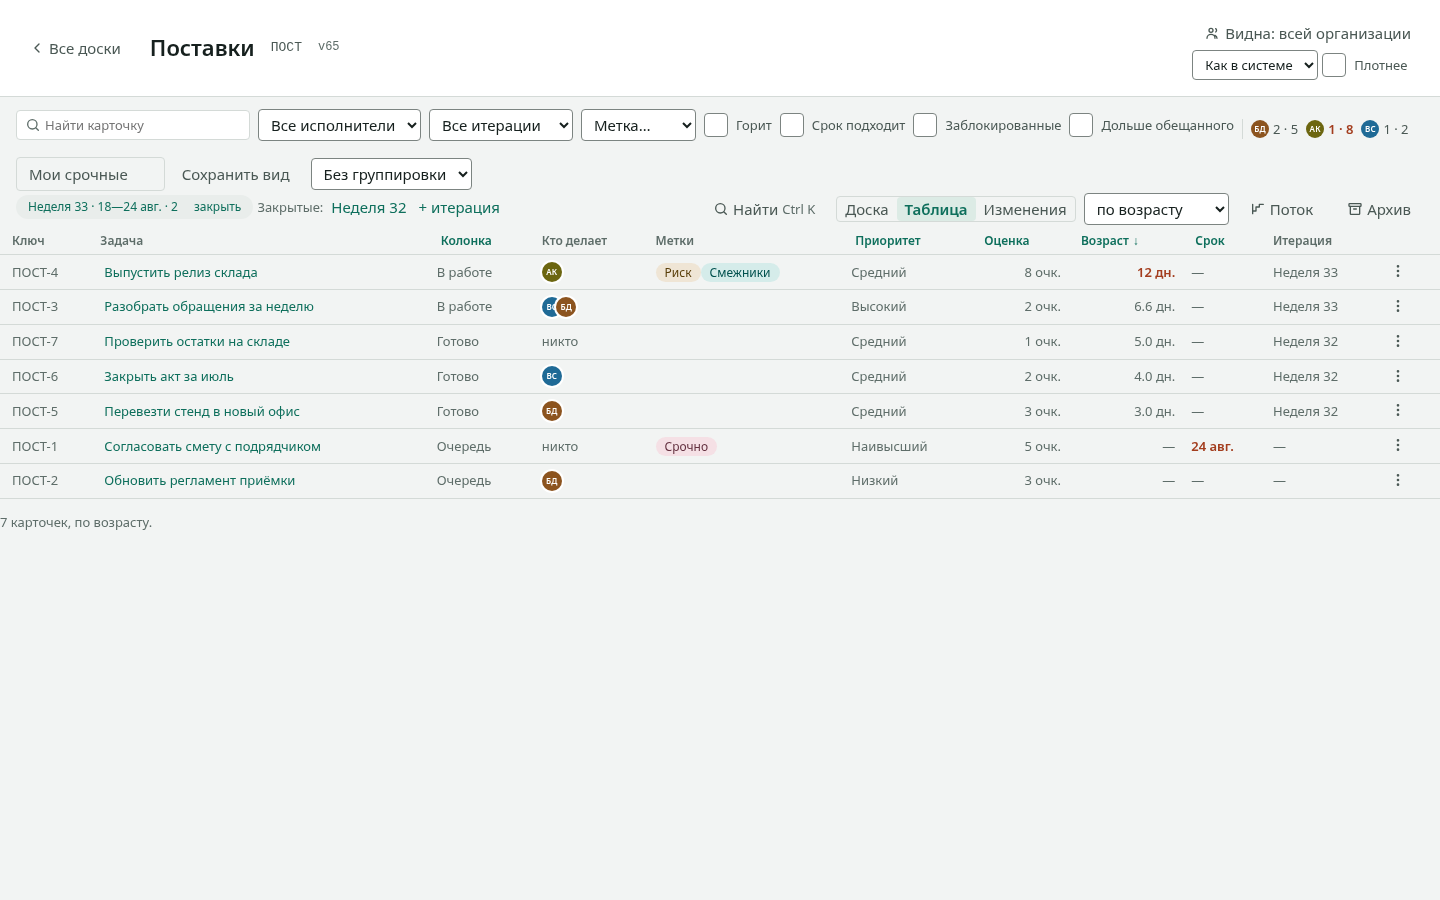
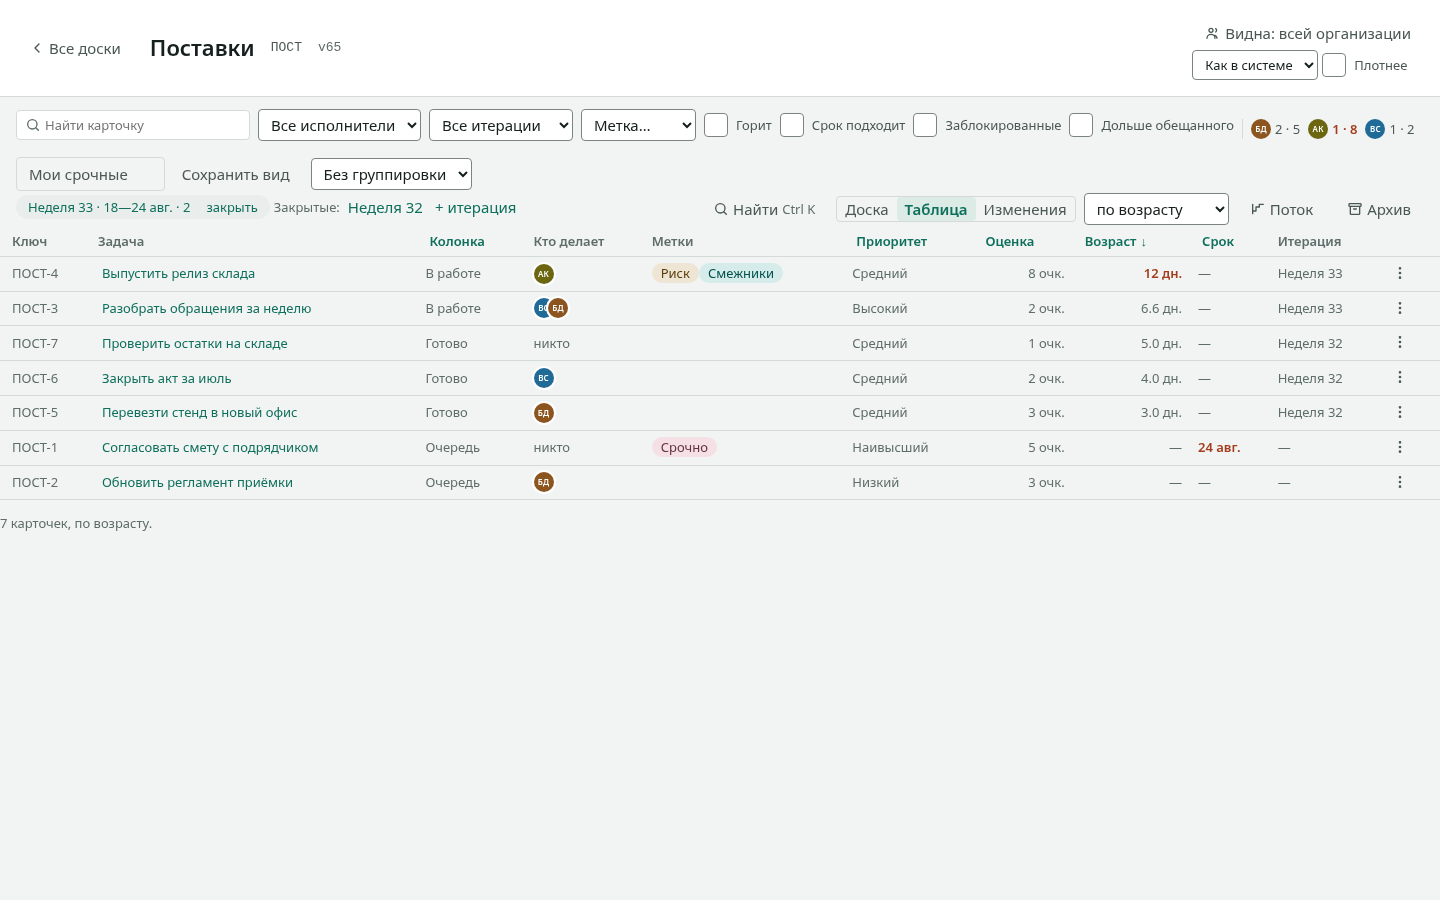
Шкала кегля: ступеней четыре, а было пять
Перепись по экранам: двенадцатью рисовалось 24 вида элементов,
тринадцатью 16, и стояли они вплотную — «ПОСТ» тринадцатью и «v65»
двенадцатью в одной строке шапки. Один и тот же класс .link выходил
то так, то этак — от того, внутри чего оказался. «Заголовок раздела»
был мельче обычного мелкого текста.

Разница в пиксель не читается: при тройном увеличении снимка видна,
на экране нет. --text-xs убран, 22 применения переехали на --text-sm.
Цена померена: самая высокая карточка выросла на 4 пикселя, колонка
из семи — на 12, ширина страницы не изменилась. Проверка запрещает
ступень мельче десяти процентов — долей, а не пикселем: шкала в rem.

Проход глазами нашёл буквы аватара — восемь пикселей, тринадцать штук
на доске. Поднимать кегль оказалось нельзя: «ШЩ» при восьми занимает
семнадцать, то есть кегль там выведен из круга, а не выбран. Мелкий
кружок теперь берёт одну букву и кегль побольше, а сводка «сколько
на ком висит» — полный размер: одна буква на доске с двумя Борисами
отвечает на вопрос о людях неверно.

Сквозная проверка следит за обоими концами: мельче шкалы на экране
только монограмма, и монограмма помещается в кружок — мерится самая
широкая пара и «+99», а не то, что досталось демонстрационным данным.

diff --git a/web/src/app/styles.css b/web/src/app/styles.css
@@ -45,7 +45,18 @@
      наборами; теперь он один. */
   --font-mono: ui-monospace, SFMono-Regular, Menlo, Consolas, 'Liberation Mono', monospace;
 
-  --text-xs: 0.75rem;
+  /* Ступеней четыре, а было пять. Пятая — 12 пикселей рядом
+     с тринадцатью — различием не была: замер 23.08.2026 нашёл эти два
+     кегля стоящими вплотную в шапке доски («ПОСТ» тринадцатью,
+     «v65» двенадцатью), а один и тот же класс `.link` рисовался
+     то так, то так — от наследования, а не по замыслу. Разница
+     в пиксель не читается ни на снимке при тройном увеличении,
+     ни тем более на экране; хуже того, «Заголовок раздела» был
+     мельче обычного мелкого текста.
+     Слияние стоило четырёх пикселей высоты у самой высокой карточки
+     и двенадцати на всю колонку из семи — при том, что ширина
+     страницы не изменилась вовсе. Различать уровни осталось
+     тем, что видно: цветом, насыщенностью, капителью. */
   --text-sm: 0.8125rem;
   --text: 0.9375rem;
   --text-lg: 1.125rem;
@@ -596,7 +607,7 @@ input[type='radio'] {
   background: var(--surface-2);
   color: var(--ink-2);
   font-family: var(--font-mono);
-  font-size: var(--text-xs);
+  font-size: var(--text-sm);
   white-space: pre-wrap;
   overflow-wrap: anywhere;
   user-select: text;
@@ -907,7 +918,7 @@ input[type='radio'] {
   font-size: var(--text-sm);
 }
 .section-title {
-  font-size: var(--text-xs);
+  font-size: var(--text-sm);
   letter-spacing: 0.12em;
   text-transform: uppercase;
   color: var(--ink-3);
@@ -942,7 +953,7 @@ input[type='radio'] {
   max-width: 100%;
 }
 .role-chip {
-  font-size: var(--text-xs);
+  font-size: var(--text-sm);
   letter-spacing: 0.04em;
   padding: var(--space-1) var(--space-2);
   border-radius: 999px;
@@ -1086,7 +1097,7 @@ select:disabled {
 }
 .note input {
   font-family: var(--font-mono);
-  font-size: var(--text-xs);
+  font-size: var(--text-sm);
 }
 
 /* --- доска --- */
@@ -1169,7 +1180,7 @@ select:disabled {
 .version,
 .pending {
   font-family: var(--font-mono);
-  font-size: var(--text-xs);
+  font-size: var(--text-sm);
   color: var(--ink-3);
 }
 .pending {
@@ -1271,7 +1282,7 @@ select:disabled {
    машинные обозначения. */
 .count {
   font-variant-numeric: tabular-nums;
-  font-size: var(--text-xs);
+  font-size: var(--text-sm);
   /* Счётчик — это кнопка: по ней ставят лимит колонки. Цифра шириной
      в пятнадцать пикселей цель нажатия по WCAG 2.5.8 не проходит. */
   min-width: var(--target);
@@ -1289,7 +1300,7 @@ select:disabled {
 }
 .count-edit {
   font-variant-numeric: tabular-nums;
-  font-size: var(--text-xs);
+  font-size: var(--text-sm);
   width: 3.5rem;
 }
 .inline-edit {
@@ -1508,7 +1519,7 @@ select:disabled {
   border: 1px solid var(--rule);
   border-radius: var(--radius);
   color: var(--ink-2);
-  font-size: var(--text-xs);
+  font-size: var(--text-sm);
   white-space: nowrap;
   vertical-align: middle;
 }
@@ -1794,7 +1805,7 @@ textarea.description {
   flex-direction: row;
   align-items: center;
   gap: var(--space-2);
-  font-size: var(--text-xs);
+  font-size: var(--text-sm);
   min-width: 0;
 }
 .subtask .link {
@@ -1967,7 +1978,7 @@ textarea.description {
    сверять нельзя. */
 .card-number {
   flex: none;
-  font-size: var(--text-xs);
+  font-size: var(--text-sm);
   font-variant-numeric: tabular-nums;
   color: var(--ink-3);
   white-space: nowrap;
@@ -1978,7 +1989,7 @@ textarea.description {
 
 .card-parent {
   margin: 0;
-  font-size: var(--text-xs);
+  font-size: var(--text-sm);
   color: var(--ink-3);
   display: flex;
   align-items: center;
@@ -2036,7 +2047,7 @@ textarea.description {
   margin-top: var(--space-1);
 }
 .mark {
-  font-size: var(--text-xs);
+  font-size: var(--text-sm);
   padding: 0 var(--space-2);
   border-radius: 999px;
   background: var(--surface-2);
@@ -2250,7 +2261,7 @@ textarea.description {
 }
 
 .card-move {
-  font-size: var(--text-xs);
+  font-size: var(--text-sm);
   min-height: var(--target);
   /* Занимает всю строку: список колонок с длинными названиями в восьми
      ремах превращается в многоточие, и выбирать приходится наугад. */
@@ -2617,7 +2628,7 @@ textarea.description {
    стоит», потом «что делать». Имя переносится, а не обрезается:
    обрезанное имя не отвечает на вопрос, к кому идти. */
 .card-waits {
-  font-size: var(--text-xs);
+  font-size: var(--text-sm);
   min-width: 0;
 }
 .card-waits .link {
@@ -2635,7 +2646,7 @@ textarea.description {
 .priority-mark {
   border-radius: 999px;
   padding: 0 var(--space-2);
-  font-size: var(--text-xs);
+  font-size: var(--text-sm);
   font-weight: 650;
   white-space: nowrap;
 }
@@ -2711,7 +2722,7 @@ textarea.description {
   border-style: dashed;
   border-color: var(--rule);
   color: var(--ink-3);
-  font-size: var(--text-xs);
+  font-size: var(--text-sm);
 }
 /* На карточке пустое поле показывается только при наведении: иначе
    в каждой строке доски висит по два пунктирных плюса, и доска
@@ -2795,7 +2806,7 @@ textarea.description {
    при разговоре о загрузке, а не при поиске работы глазами. */
 .card-estimate {
   flex: none;
-  font-size: var(--text-xs);
+  font-size: var(--text-sm);
   font-variant-numeric: tabular-nums;
   color: var(--ink-3);
   padding: 0 var(--space-1);
@@ -2809,7 +2820,7 @@ textarea.description {
    стоит выше и таблеткой — но уже тревожной. */
 .card-due {
   flex: none;
-  font-size: var(--text-xs);
+  font-size: var(--text-sm);
   color: var(--ink-3);
 }
 
@@ -2820,7 +2831,7 @@ textarea.description {
 .card-age {
   flex: none;
   margin-left: auto;
-  font-size: var(--text-xs);
+  font-size: var(--text-sm);
   font-variant-numeric: tabular-nums;
   color: var(--ink-3);
 }
@@ -2853,7 +2864,7 @@ textarea.description {
   display: inline-flex;
   align-items: center;
   gap: 0.15rem;
-  font-size: var(--text-xs);
+  font-size: var(--text-sm);
   font-variant-numeric: tabular-nums;
   color: var(--ink-3);
 }
@@ -3249,7 +3260,7 @@ textarea.description {
      все восемь разом, сменить тон — только один. */
   background: oklch(var(--chip-bg-l) var(--chip-c, var(--chip-bg-c)) var(--hue, 0));
   color: oklch(var(--chip-fg-l) var(--chip-fg-c-own, var(--chip-fg-c)) var(--hue, 0));
-  font-size: var(--text-xs);
+  font-size: var(--text-sm);
   line-height: 1.4;
   padding: 0 var(--space-2);
   border-radius: 999px;
@@ -3546,7 +3557,7 @@ textarea.description {
 }
 .board-table th {
   text-align: left;
-  font-size: var(--text-xs);
+  font-size: var(--text-sm);
   font-weight: 600;
   color: var(--ink-3);
   padding: var(--space-1) var(--space-2);

diff --git a/web/e2e/a11y.spec.ts b/web/e2e/a11y.spec.ts
@@ -1077,3 +1077,76 @@ test('на бумагу уходит документ, а не снимок эк
     }),
   ).toEqual({ панельВидна: true, доскаСкрыта: true })
 })
+
+test('мельче шкалы на экране только монограмма аватара', async ({ page }) => {
+  // Шкала кегля начинается с 13 пикселей: ступень мельче не читалась
+  // и была убрана 23.08.2026. Одно место осталось ниже шкалы — буквы
+  // в кружке аватара, и это не текст, а монограмма: она спрятана
+  // от диктора (`aria-hidden`), имя целиком стоит рядом в `title`,
+  // и задача у неё не читаться, а узнаваться.
+  //
+  // Восемь пикселей там не выбраны, а выведены: самая широкая пара
+  // русских заглавных — «ШЩ» — занимает семнадцать пикселей из двадцати
+  // (замер 23.08.2026). Поднять кегль, не подняв кружок, значит
+  // обрезать буквы; поэтому проверка следит за обоими концами разом.
+  await page.setViewportSize({ width: 1440, height: 900 })
+  await page.goto('/')
+  await page.getByLabel('Почта').fill('anna@example.test')
+  await page.getByLabel('Пароль').fill('parol12345')
+  await page.getByRole('button', { name: 'Войти' }).click()
+  await page.getByRole('button', { name: 'Поставки', exact: true }).click()
+  await expect(page.getByRole('region', { name: 'Очередь' })).toBeVisible()
+
+  const мелкие = await page.evaluate(() => {
+    const out: string[] = []
+    for (const el of document.querySelectorAll<HTMLElement>('body *')) {
+      const свой = [...el.childNodes].some((n) => n.nodeType === 3 && n.textContent?.trim())
+      if (!свой) continue
+      const box = el.getBoundingClientRect()
+      if (!box.width || !box.height) continue
+      if (el.closest('.avatar')) continue
+      const кегль = parseFloat(getComputedStyle(el).fontSize)
+      if (кегль >= 13) continue
+      out.push(`${кегль}px ${el.className || el.tagName}: ${(el.textContent ?? '').trim().slice(0, 20)}`)
+    }
+    return out
+  })
+  expect(мелкие, 'текст мельче шкалы').toEqual([])
+
+  // Второй конец: буквы обязаны помещаться в кружок — и не те, что
+  // достались демонстрационным данным, а самые широкие, какие бывают.
+  const тесные = await page.evaluate(() => {
+    const out: string[] = []
+    const диапазон = document.createRange()
+    // Кружок «+2» в конце стопки — тот же круг и тот же расчёт;
+    // на нём проверяется «+99», потому что двузначное число там
+    // обычное дело.
+    for (const б of document.querySelectorAll<HTMLElement>('.avatar-more')) {
+      const круг = б.getBoundingClientRect().width
+      if (круг === 0) continue
+      const было = б.textContent
+      б.textContent = '+99'
+      диапазон.selectNodeContents(б)
+      const текст = диапазон.getBoundingClientRect().width
+      б.textContent = было
+      if (текст > круг - 1) out.push(`стопка ${Math.round(круг)}px, «+99» ${Math.round(текст)}px`)
+    }
+    for (const а of document.querySelectorAll<HTMLElement>('.avatar')) {
+      const круг0 = а.getBoundingClientRect().width
+      if (круг0 === 0) continue // спрятанный: мерить нечего
+      const было = а.textContent
+      // Мелкий кружок берёт одну букву — самой широкой считается
+      // соответственно «Ш» или «ШЩ».
+      а.textContent = (было ?? '').length > 1 ? 'ШЩ' : 'Ш'
+      диапазон.selectNodeContents(а)
+      const текст = диапазон.getBoundingClientRect().width
+      const круг = а.getBoundingClientRect().width
+      а.textContent = было
+      if (текст > круг - 1) {
+        out.push(`кружок ${Math.round(круг)}px, «ШЩ» ${Math.round(текст)}px`)
+      }
+    }
+    return [...new Set(out)]
+  })
+  expect(тесные, 'монограмма не помещается в кружок').toEqual([])
+})

diff --git a/web/src/shared/ui/Avatar.tsx b/web/src/shared/ui/Avatar.tsx
@@ -28,11 +28,23 @@ const SIZE = 20
  *  размер приходит вписанным стилем, а он сильнее класса. */
 export const AVATAR_SMALL = 18
 
+/** С какого размера в кружок влезают две заглавные.
+ *
+ *  Не на глаз: самая широкая русская пара — «ШЩ» — занимает при кегле
+ *  восемь пикселей семнадцать, и в кружок восемнадцати она входит
+ *  впритык, без поля (замер 23.08.2026). Поэтому мелкий кружок берёт
+ *  одну букву и кегль побольше: одна буква десятью читается, две
+ *  восемью — узнаются в лучшем случае. */
+const ДВЕ_БУКВЫ_ОТ = 20
+
 /** Размер задаётся вписанным стилем, а не классом, потому что он
  *  приходит числом из вызова. Класс с размером тот же стиль
  *  не перебьёт — так уже был мёртвый `.avatars--small`. */
 function sizing(size: number) {
-  return { inlineSize: size, blockSize: size, fontSize: Math.round(size * 0.42) }
+  // Доля кегля от кружка разная: у одной буквы места вдвое больше,
+  // и мельчить её незачем.
+  const доля = size >= ДВЕ_БУКВЫ_ОТ ? 0.42 : 0.55
+  return { inlineSize: size, blockSize: size, fontSize: Math.round(size * доля) }
 }
 
 /** Разброс по имени. Не криптография: нужно лишь, чтобы два соседних
@@ -53,7 +65,7 @@ export function Avatar({ name, size = SIZE }: { name: string; size?: number }) {
       title={name}
       aria-hidden="true"
     >
-      {initials(name)}
+      {size >= ДВЕ_БУКВЫ_ОТ ? initials(name) : initials(name).slice(0, 1)}
     </span>
   )
 }

diff --git a/web/src/features/board/Workload.tsx b/web/src/features/board/Workload.tsx
@@ -81,7 +81,12 @@ export function Workload({
           className={row.overdue ? 'workload-item workload-item--overdue' : 'workload-item'}
           title={title(row, unit)}
         >
-          <Avatar name={row.name} size={18} />
+          {/* Полный размер, а не второй план: в кружок восемнадцати
+              две заглавные не входят, и мелкий кружок берёт одну
+              букву — а здесь букв нужно две. Сводка отвечает
+              на вопрос «сколько на ком», и одна буква на доске
+              с двумя Борисами отвечает неверно. */}
+          <Avatar name={row.name} />
           <span className="small">
             {row.cards}
             {row.weight > 0 && ` · ${number(row.weight)}${row.unestimated > 0 ? '+' : ''}`}
